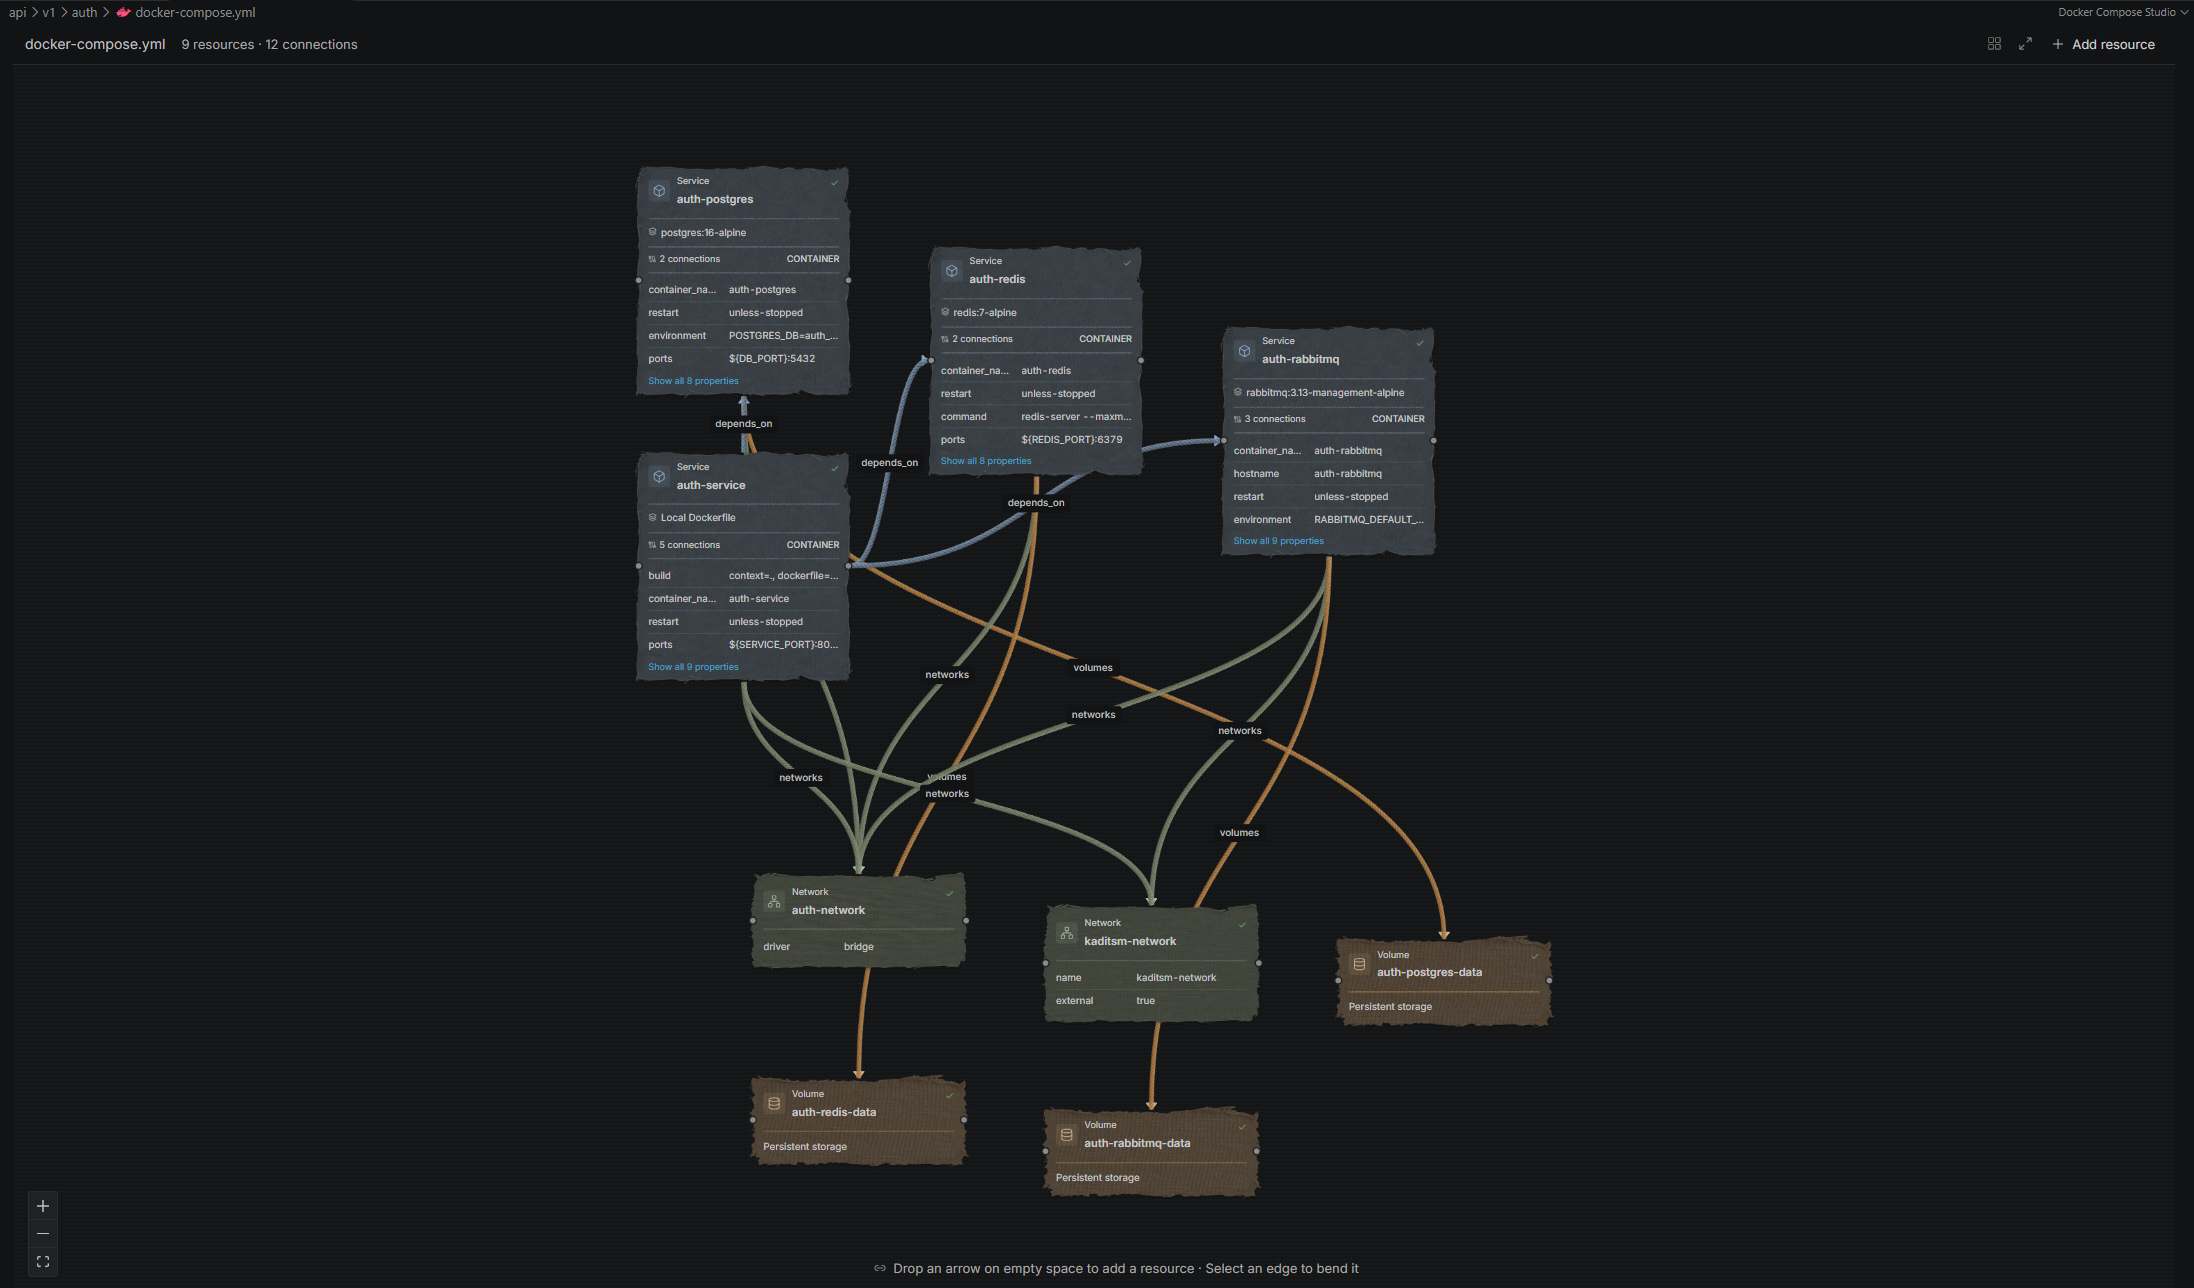
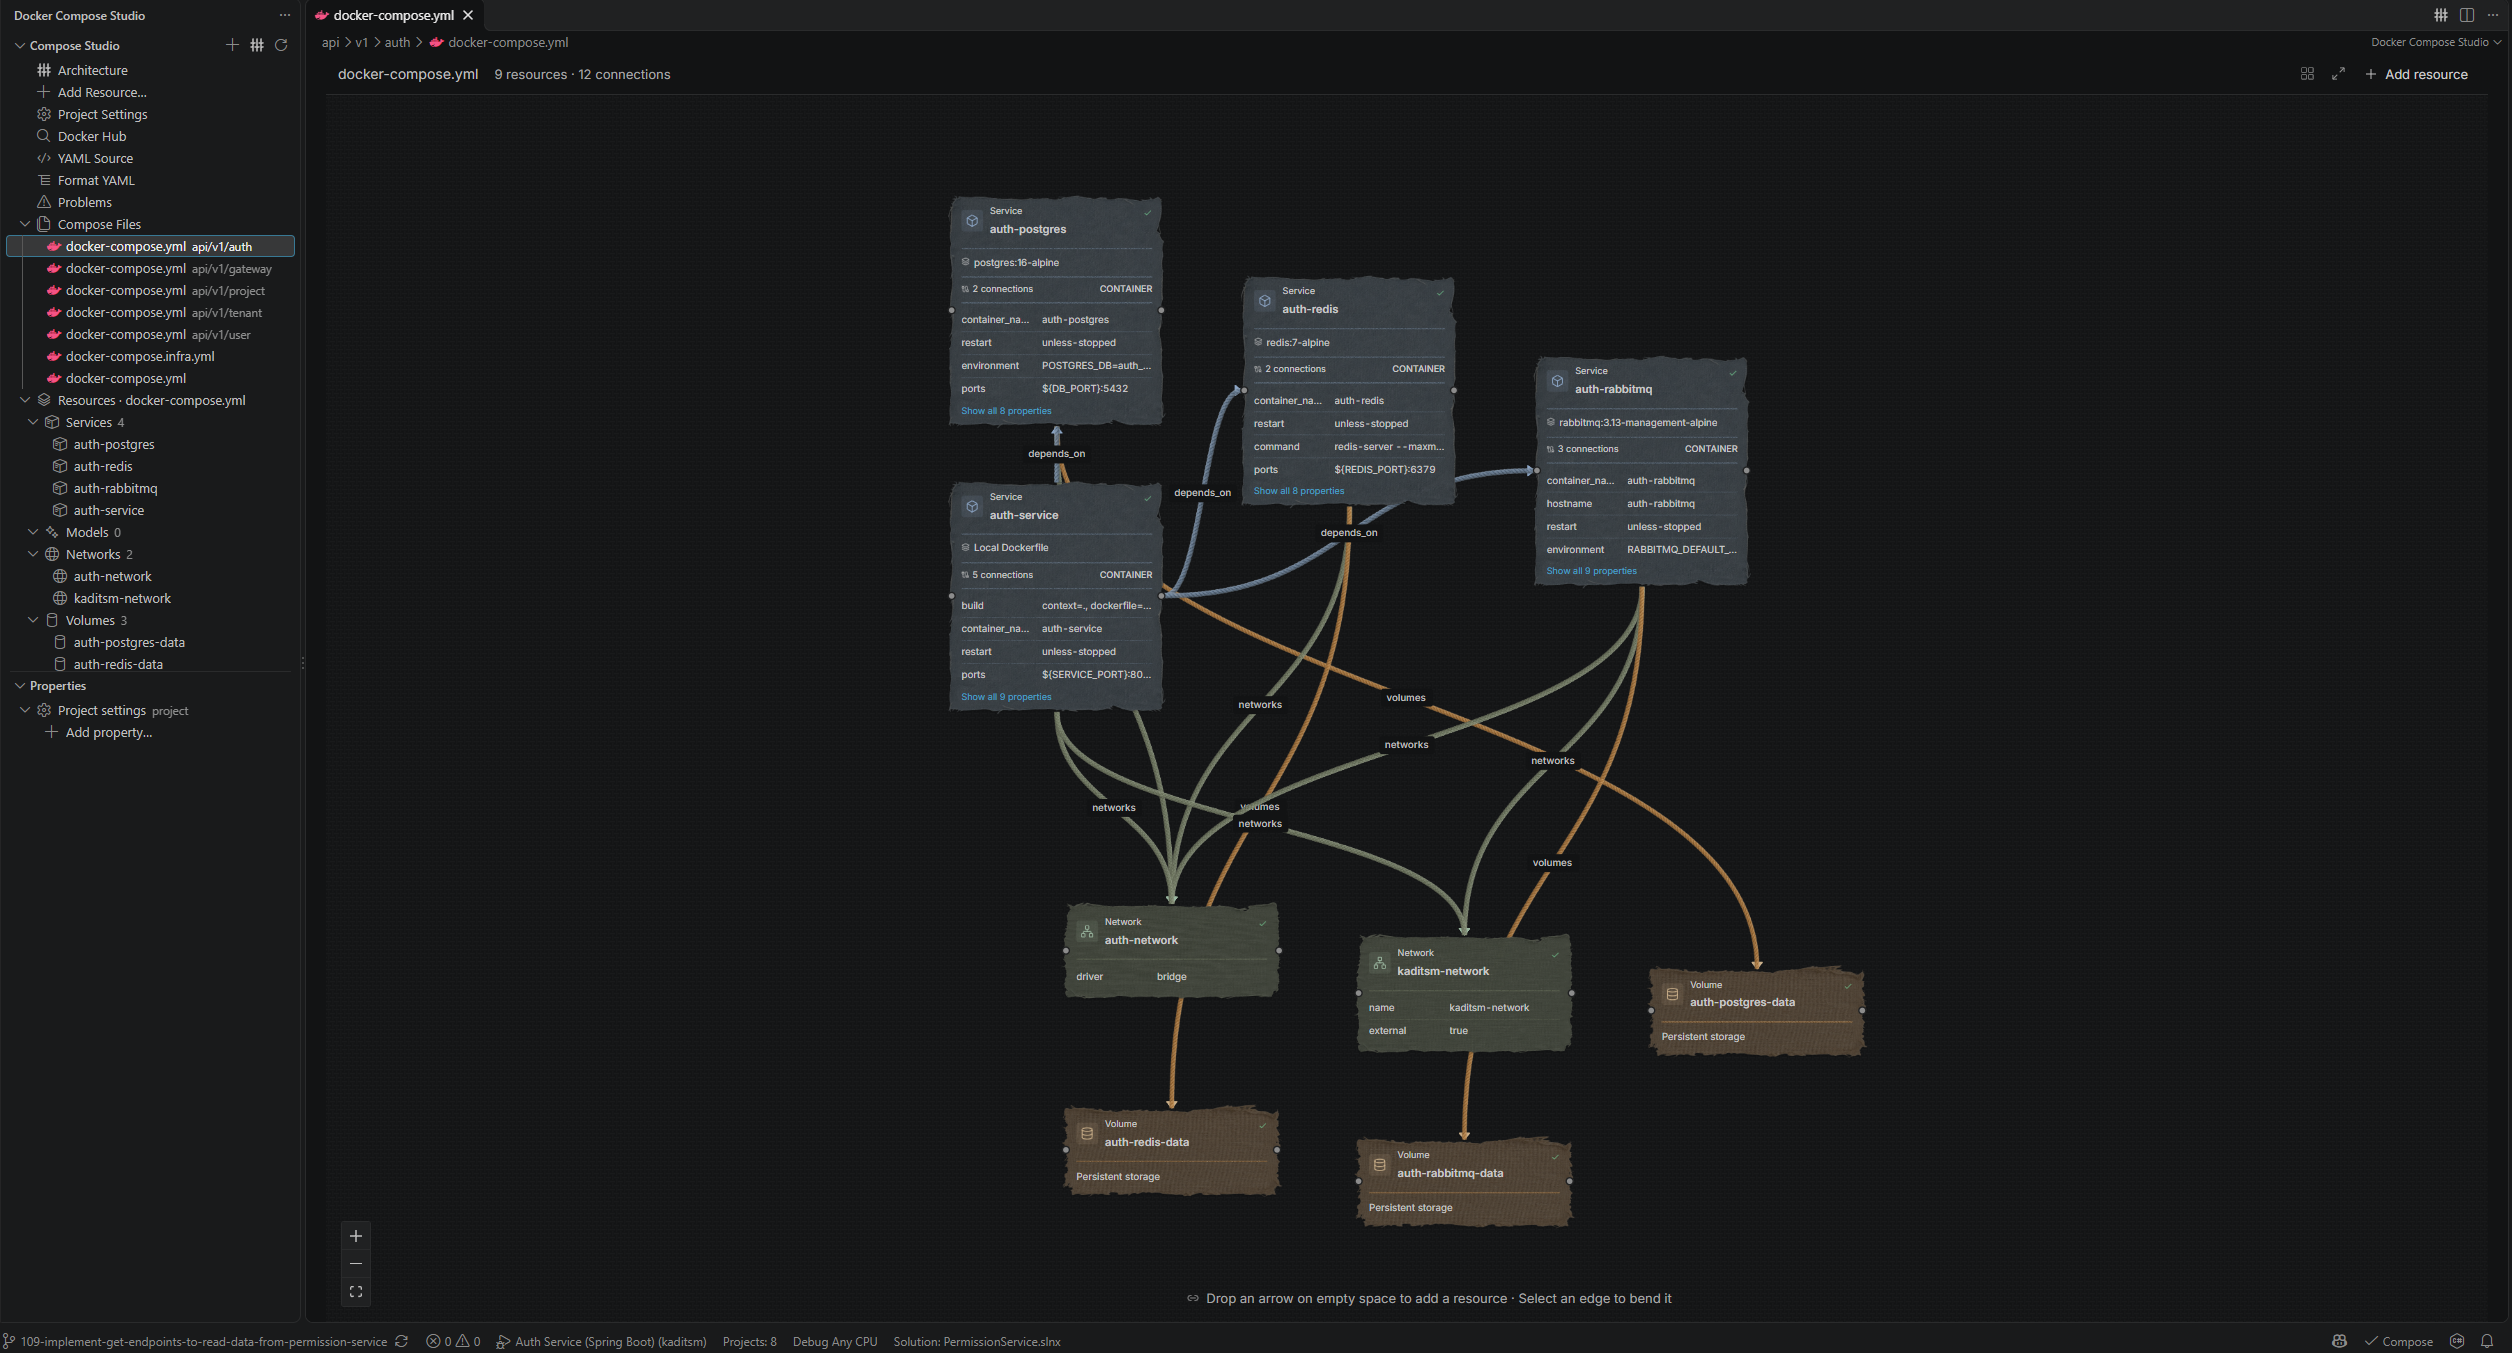
Show the VS Code sidebar in the README screenshot

diff --git a/README.md b/README.md
@@ -4,7 +4,7 @@ Edit Docker Compose files visually in VS Code. Follow connections between resour
 
 Built by **kadadana**.
 
-![Dokur graph showing an authentication service, PostgreSQL, Redis, RabbitMQ, and their connections](media/compose-studio.png)
+![Dokur in VS Code, with the Compose Files and Properties sidebar beside an authentication stack graph](media/compose-studio.png)
 
 ## Get started
 
